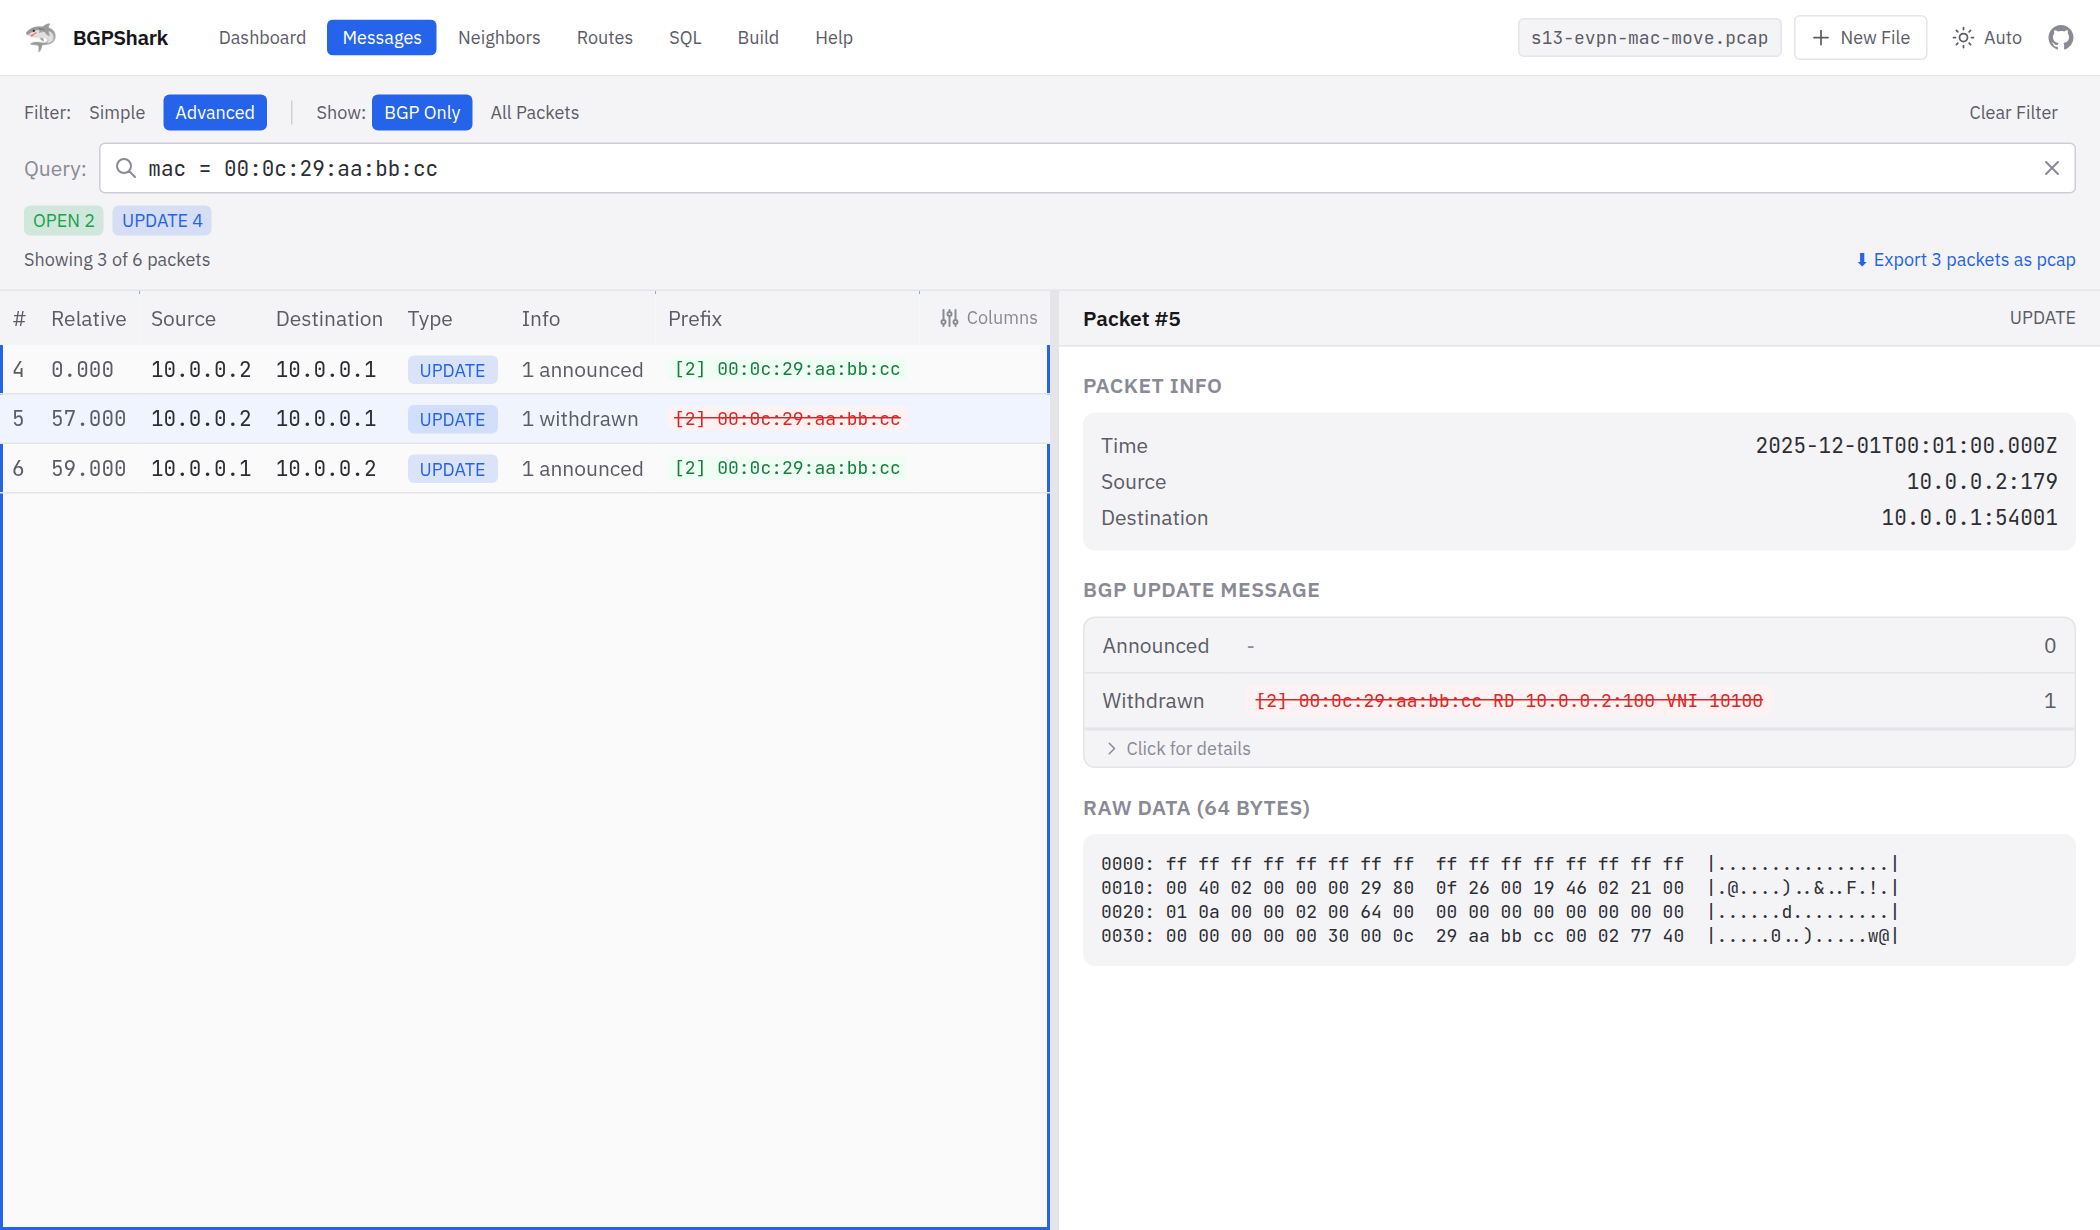
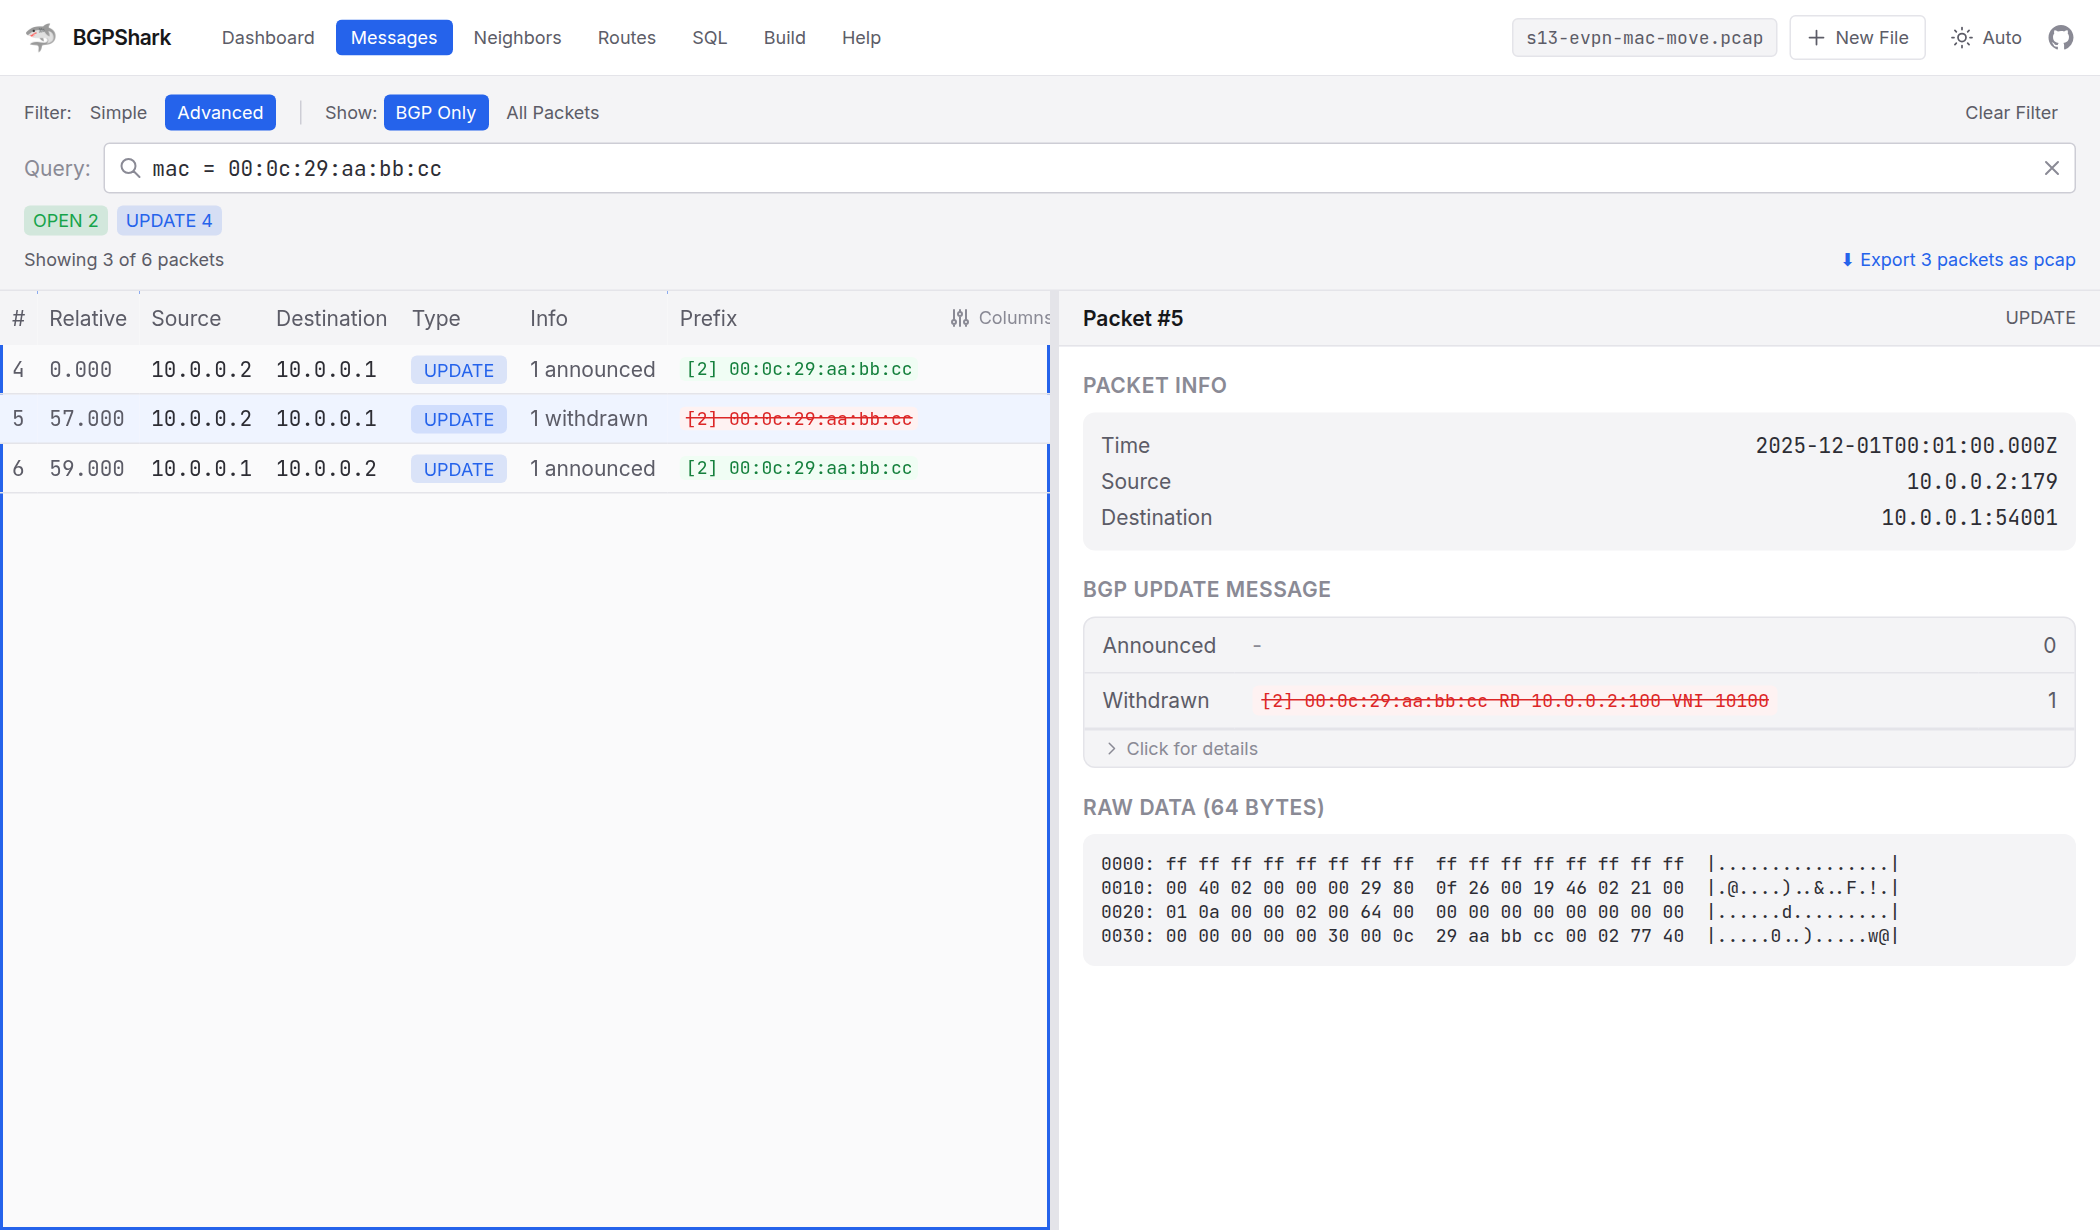
Replace IBM Plex Sans with Inter, which reserves no font name
The OFL counts a change of format as a Modified Version - converting a .ttf
to a .woff2 is enough on its own, before any subsetting - and clause 3
forbids a Modified Version from using a Reserved Font Name. Every
self-hosted webfont is therefore a Modified Version, so shipping IBM Plex
Sans, which reserves "Plex", rested on a reading of clause 3 rather than on
the plain text. The whole web does the same thing and nobody has been sued
over it, but the question does not have to be open.

Inter closes it by reserving nothing. So does JetBrains Mono, which is why
the mono side needed no change and why both families are now here on the
same footing. Checked against the upstream licence files: of the candidates
- Inter, Noto Sans, Roboto, JetBrains Mono - IBM Plex was the only one
declaring a reserved name, the modern "The X Project Authors" convention
having dropped them.

The files are the Latin WOFF2 subsets from @fontsource/inter 5.3.0, copied
in rather than depended on, which is the pattern the fonts here already
followed. Sizes are within a kilobyte of what they replace. Inter carries a
slightly larger x-height, so the interface reads marginally bigger at the
same px - visible in the regenerated screenshots, and not worth respacing.

Claude-Session: https://claude.ai/code/session_012sL57r2cEmtYyu7MXq6nv4

diff --git a/src/index.css b/src/index.css
@@ -9,30 +9,40 @@
    production CSP (font-src 'self'). Latin subsets only; the content here is IP
    addresses, ASNs and protocol field names.
 
-   IBM Plex Sans for interface chrome, JetBrains Mono for data. Both were drawn
-   for technical contexts, which is what this instrument displays.
+   Inter for interface chrome, JetBrains Mono for data. Both were drawn for
+   screens carrying dense technical text, which is what this instrument
+   displays.
 
    Both are under the SIL Open Font License 1.1, which asks that the copyright
    notice and licence travel with a redistributed copy — and serving them from
    this origin is redistribution. The notices and the licence text are in
    public/THIRD-PARTY-LICENSES.txt, which is a file in the repository and is
    also copied into the build. Adding a font here means adding it there.
+
+   Neither declares a Reserved Font Name, and that is the reason both are here
+   rather than something else. The OFL counts a *format change* as a Modified
+   Version — converting a .ttf to .woff2 is enough — and clause 3 forbids a
+   Modified Version from using a reserved name. Every self-hosted webfont is
+   therefore a Modified Version, so a family with a reserved name (IBM Plex,
+   which this replaced, reserves "Plex") can only be shipped here under a
+   reading of clause 3 rather than plainly. Picking families that reserve
+   nothing removes the question instead of answering it.
 --------------------------------------------------------------------------- */
 
 @font-face {
-  font-family: 'IBM Plex Sans';
+  font-family: 'Inter';
   font-style: normal;
   font-weight: 400;
   font-display: swap;
-  src: url('./assets/fonts/ibm-plex-sans-400.woff2') format('woff2');
+  src: url('./assets/fonts/inter-400.woff2') format('woff2');
 }
 
 @font-face {
-  font-family: 'IBM Plex Sans';
+  font-family: 'Inter';
   font-style: normal;
   font-weight: 600;
   font-display: swap;
-  src: url('./assets/fonts/ibm-plex-sans-600.woff2') format('woff2');
+  src: url('./assets/fonts/inter-600.woff2') format('woff2');
 }
 
 @font-face {
@@ -191,7 +201,7 @@
 
   body {
     @apply bg-canvas text-body;
-    font-family: 'IBM Plex Sans', ui-sans-serif, system-ui, sans-serif;
+    font-family: 'Inter', ui-sans-serif, system-ui, sans-serif;
     -webkit-font-smoothing: antialiased;
   }
 

diff --git a/tailwind.config.js b/tailwind.config.js
@@ -57,7 +57,7 @@ export default {
         },
       },
       fontFamily: {
-        sans: ['IBM Plex Sans', 'ui-sans-serif', 'system-ui', 'sans-serif'],
+        sans: ['Inter', 'ui-sans-serif', 'system-ui', 'sans-serif'],
         mono: [
           'JetBrains Mono',
           'ui-monospace',
